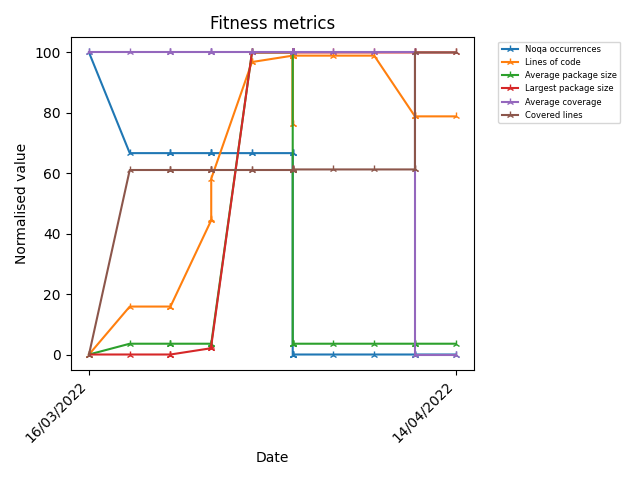
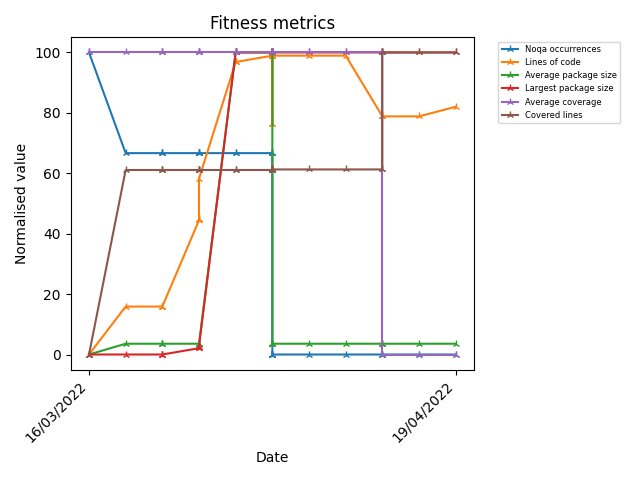
Feature - TRSV2-161 - Invite existing organisation (#128)
* Refactoring the forgotten password code to split it up into more modular, smaller views.

* black refactoring

* black refactoring

* Splitting up long line

* black reformatting

* Prelminary work on inviting existing third parties to cases

* [ci skip] AUTOMATED - update fitness functions

* Updated requirements.txt to use new client branch

* [ci skip] AUTOMATED - update fitness functions

* Updated requirements.txt to use new client branch

* made trade_remedies_public a module, getting module not found errors on Jenkins

* [ci skip] AUTOMATED - update fitness functions

* Monkey patching the BaseRegisterView as build still failing

* [ci skip] AUTOMATED - update fitness functions

* Checking is user is logged in

* New modified invite flow for third parties

* [ci skip] AUTOMATED - update fitness functions

* Changed the wording to better reflect when the emails get sent

* [ci skip] AUTOMATED - update fitness functions

* black and flake8

* [ci skip] AUTOMATED - update fitness functions

* Moved BaseRegisterView

* Black

* [ci skip] AUTOMATED - update fitness functions

* Removed the special client branch from requirements

* [ci skip] AUTOMATED - update fitness functions

* Re-removed the redirect invite code

* [ci skip] AUTOMATED - update fitness functions

* remove redundant noqa occurences

* [ci skip] AUTOMATED - update fitness functions
[…]

diff --git a/trade_remedies_public/templates/cases/submissions/invite/view.html b/trade_remedies_public/templates/cases/submissions/invite/view.html
@@ -19,7 +19,12 @@
     This invitation was accepted.
     {% endif %}
 
-    The following will be sent invitations to join your view of this case when the Letter of Authority is reviewed by the Trade Remedies Authority:
+    {% if submission.status.received %}
+        The following were sent invitations to join your view of this case.
+    {% else %}
+        The following will be sent invitations to join your view of this case when the Letter of Authority is reviewed by the Trade Remedies Authority:
+    {% endif %}
+
     <table>
         <tr>
             <th>Name</th>

diff --git a/trade_remedies_public/templates/partials/widgets/org_display_large.html b/trade_remedies_public/templates/partials/widgets/org_display_large.html
@@ -1,7 +1,7 @@
 {% if org_indicator_type == 1 and current_organisation and not all_organisations %}
     <div class="organisation-block">
     {% if is_third_party %}
-        You are {{ current_organisation.name|default:'Third Party' }} representing {{ inviting_organisation_name|default:'N/A' }}
+        You are {{ request.user.organisation.name|default:'Third Party' }} representing {{ inviting_organisation_name|default:'N/A' }}
     {% else %}
         You are currently representing {{current_organisation.name|default:'N/A'}}
     {% endif %}

diff --git a/trade_remedies_public/core/views.py b/trade_remedies_public/core/views.py
@@ -402,7 +402,7 @@ class DashboardView(
                 "pre_manage_team": client.get_system_boolean("PRE_MANAGE_TEAM"),
                 "pre_applications": client.get_system_boolean("PRE_APPLICATIONS"),
                 "pre_register_interest": client.get_system_boolean("PRE_REGISTER_INTEREST"),
-                "is_org_owner": SECURITY_GROUP_ORGANISATION_OWNER in request.user.groups,
+                "is_org_owner": SECURITY_GROUP_ORGANISATION_OWNER in request.user.organisation_groups,
             },
         )
 
